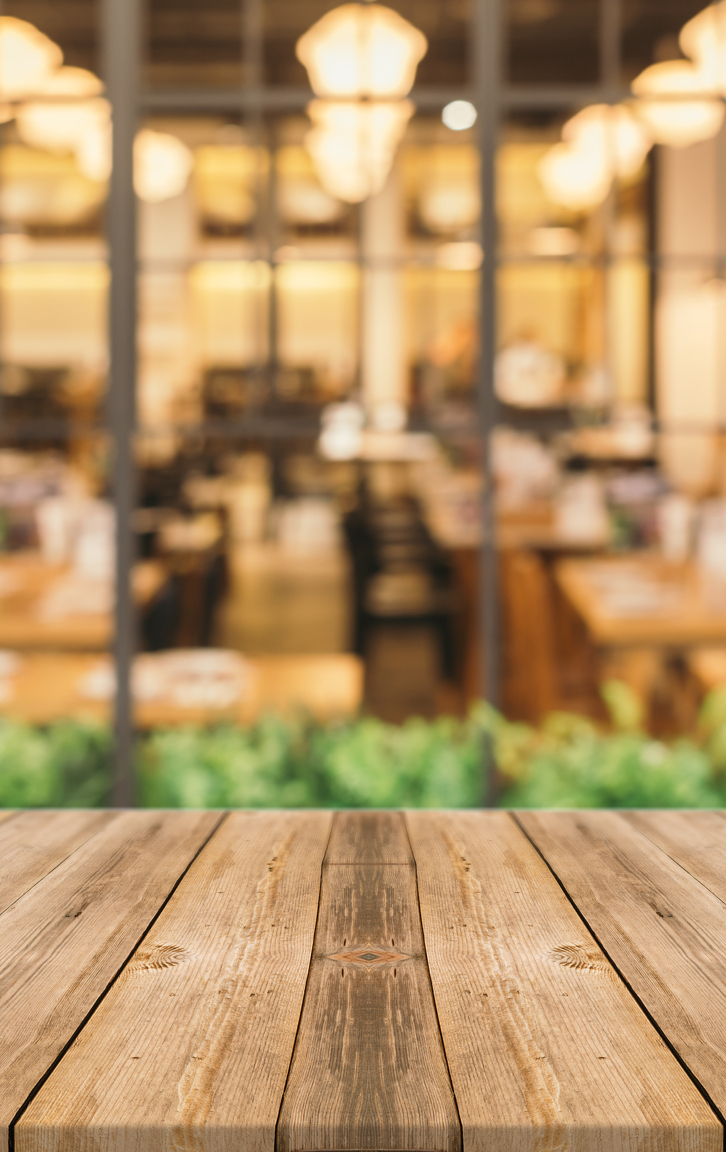
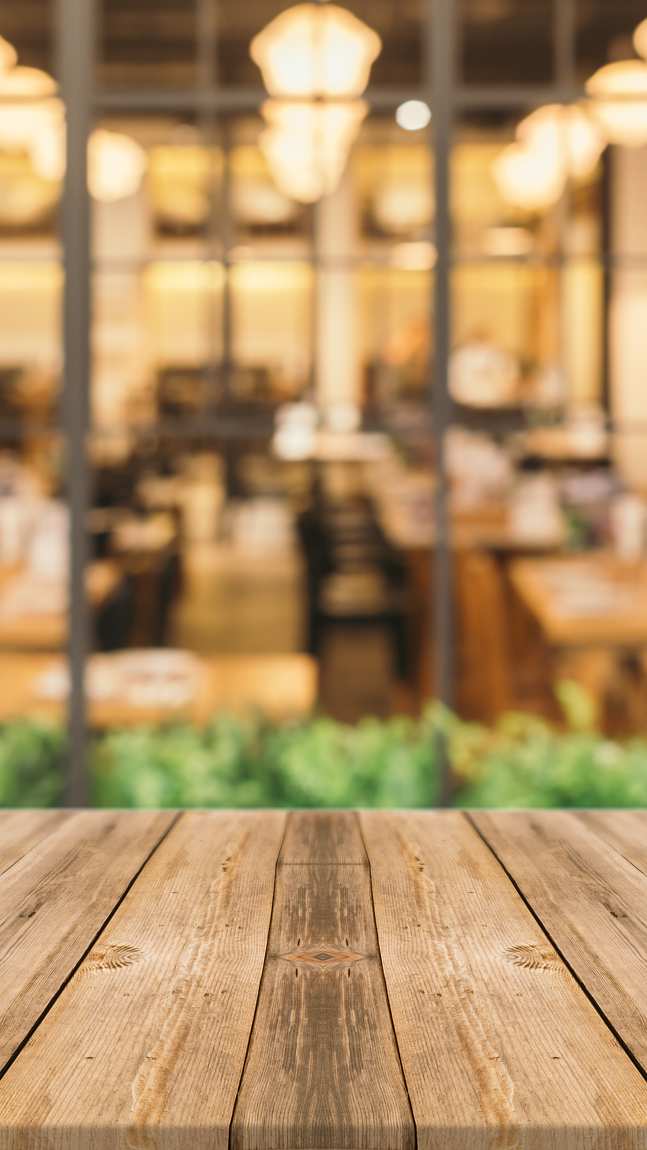
update

diff --git a/www/css/style.css b/www/css/style.css
@@ -49,10 +49,12 @@ body > .grid {
 }
 #index-body{
 	background-image: url("../images/background2.png");
-	width: auto;
+	background-size: 100% 100%;
 }
 #index-grid{
 	margin: 0px;
+	width: 100%;
+	height: 100%;
 }
 #signature{
 	width: 50%; 
